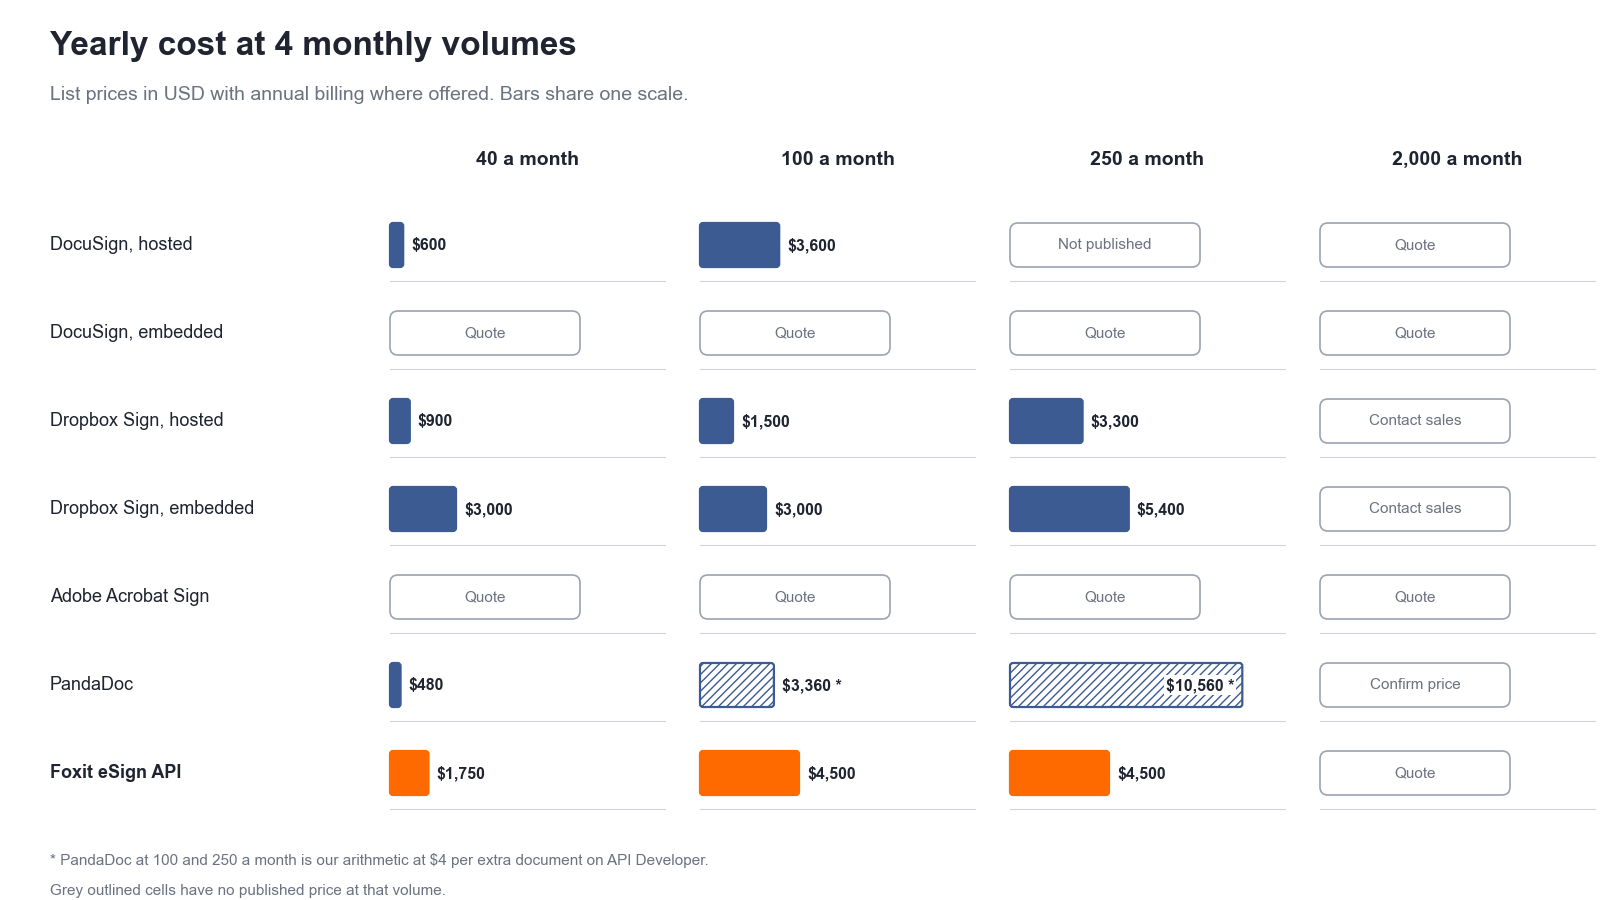
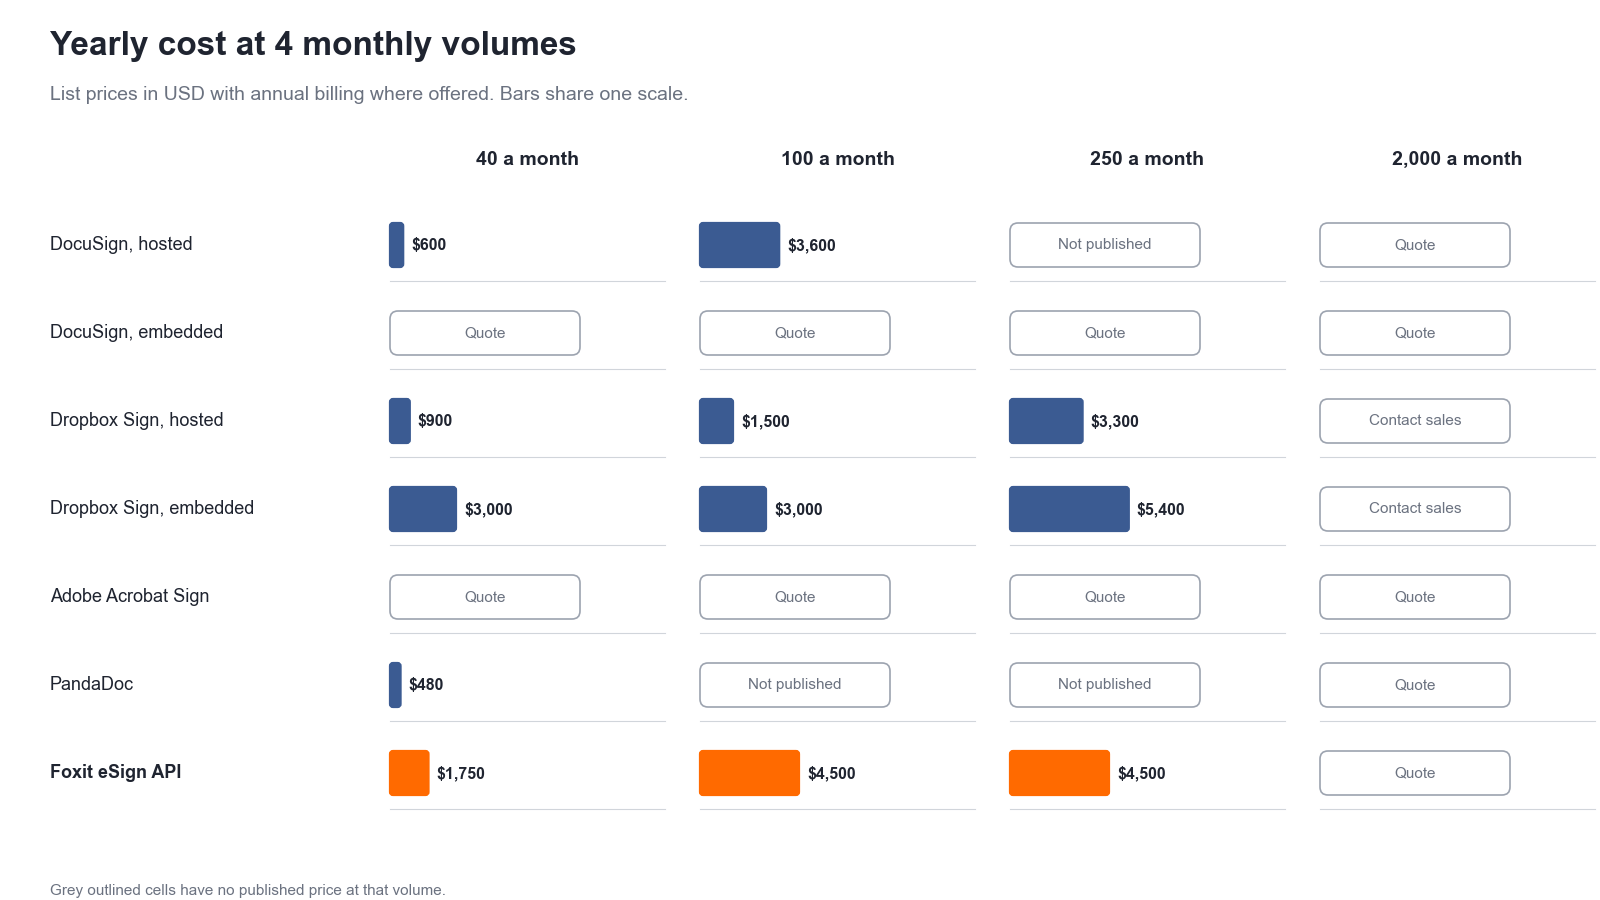
Pricing comparison diagrams: re-date vendor checks to 5 Nov 2026 and drop the unpublished PandaDoc overage rate
Claude-Session: https://claude.ai/code/session_01Daiw786NF8hEodeFhpkAud

diff --git a/images/esign-api-pricing-comparison/build_diagrams.py b/images/esign-api-pricing-comparison/build_diagrams.py
@@ -65,7 +65,7 @@ def d01():
         ax.scatter([bx], [y], s=420, color=col, zorder=3)
         ax.text(bx, y, "$", ha="center", va="center", color="white", fontsize=13, weight="bold", zorder=4)
         ax.text(bx + 0.35, y - 0.33, note, fontsize=10.5, color=MUTED, va="center", bbox=dict(fc="white", ec="none", pad=1.5, alpha=0.85))
-    ax.text(0.5, 0.2, "Unsigned, declined, and abandoned requests still count. Vendor terms checked 27 Oct 2026.",
+    ax.text(0.5, 0.2, "Unsigned, declined, and abandoned requests still count. Vendor terms checked 5 Nov 2026.",
             fontsize=11, color=MUTED)
     finish(fig, "diagram-billing-moment.png")
 
@@ -119,7 +119,7 @@ def d03():
         ("Dropbox Sign, hosted", [900, 1500, 3300, "Contact sales"]),
         ("Dropbox Sign, embedded", [3000, 3000, 5400, "Contact sales"]),
         ("Adobe Acrobat Sign", ["Quote", "Quote", "Quote", "Quote"]),
-        ("PandaDoc", [480, ("est", 3360), ("est", 10560), "Confirm price"]),
+        ("PandaDoc", [480, "Not published", "Not published", "Quote"]),
         ("Foxit eSign API", [1750, 4500, 4500, "Quote"]),
     ]
     vols = ["40 a month", "100 a month", "250 a month", "2,000 a month"]
@@ -153,8 +153,6 @@ def d03():
             else:
                 box(ax, x0, y - 0.22, 1.9, 0.44, "white", GRAY, lw=1.2, r=0.08)
                 ax.text(x0 + 0.95, y, val, ha="center", va="center", fontsize=11, color=MUTED)
-    ax.text(0.5, 0.35, "* PandaDoc at 100 and 250 a month is our arithmetic at $4 per extra document on API Developer.",
-            fontsize=11, color=MUTED)
     ax.text(0.5, 0.0 + 0.05, "Grey outlined cells have no published price at that volume.", fontsize=11, color=MUTED)
     finish(fig, "diagram-cost-by-volume.png")
 
@@ -204,7 +202,7 @@ def d05():
         ("DocuSign", "Keeps sending", "API-plan overage rate not published; the contract sets the cost", BLUE),
         ("Dropbox Sign", "Keeps sending", "Automatic upgrade to the next tier, which stays in place (alert at 80%)", BLUE),
         ("Adobe Acrobat Sign", "Keeps sending", "Over-use settled by contract", BLUE),
-        ("PandaDoc", "Depends on plan", "API Developer: $4 per extra document. Starter and Business: API creation pauses", GRAY),
+        ("PandaDoc", "Depends on plan", "API Developer: overage rate not published. Starter and Business: API creation pauses", GRAY),
         ("Foxit eSign API", "Stops", 'Calls that need credits stop (HTTP 403) until renewal or upgrade', ORANGE),
     ]
     for i, (name, outcome, detail, col) in enumerate(rows):
@@ -214,7 +212,7 @@ def d05():
         ax.text(5.0, y + 0.33, outcome, ha="center", va="center", fontsize=13, weight="bold", color="white")
         ax.add_patch(FancyArrowPatch((6.4, y + 0.33), (7.1, y + 0.33), arrowstyle="-|>", mutation_scale=16, color=MUTED, lw=1.5))
         ax.text(7.25, y + 0.33, detail, va="center", fontsize=12, color=INK)
-    ax.text(0.5, 0.35, "Vendor terms checked 27 Oct 2026. Foxit response from a live call on an exhausted account, 4 Nov 2026.",
+    ax.text(0.5, 0.35, "Vendor terms checked 5 Nov 2026. Foxit response from a live call on an exhausted account, 4 Nov 2026.",
             fontsize=11, color=MUTED)
     finish(fig, "diagram-cap-behavior.png")
 
